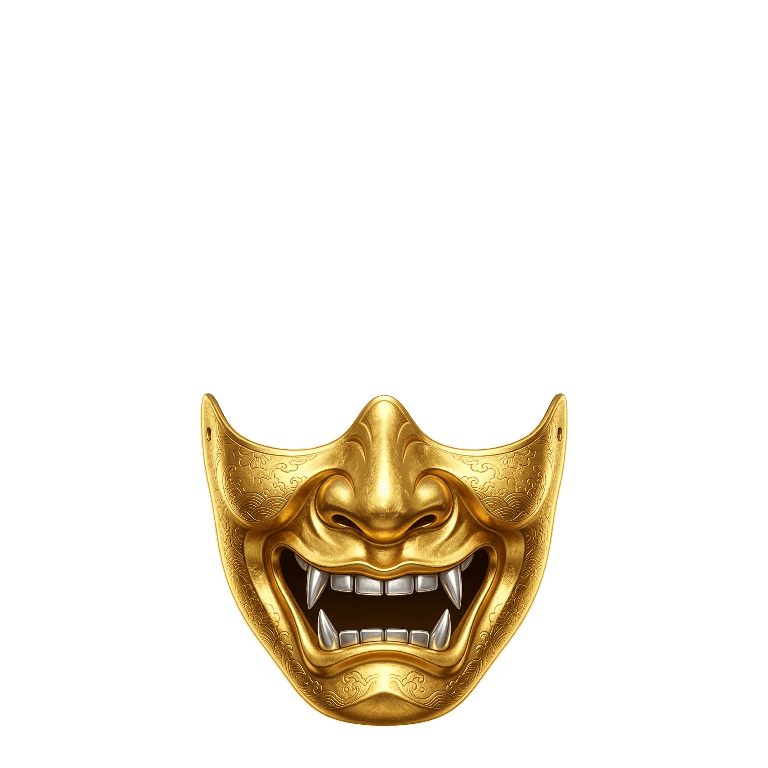
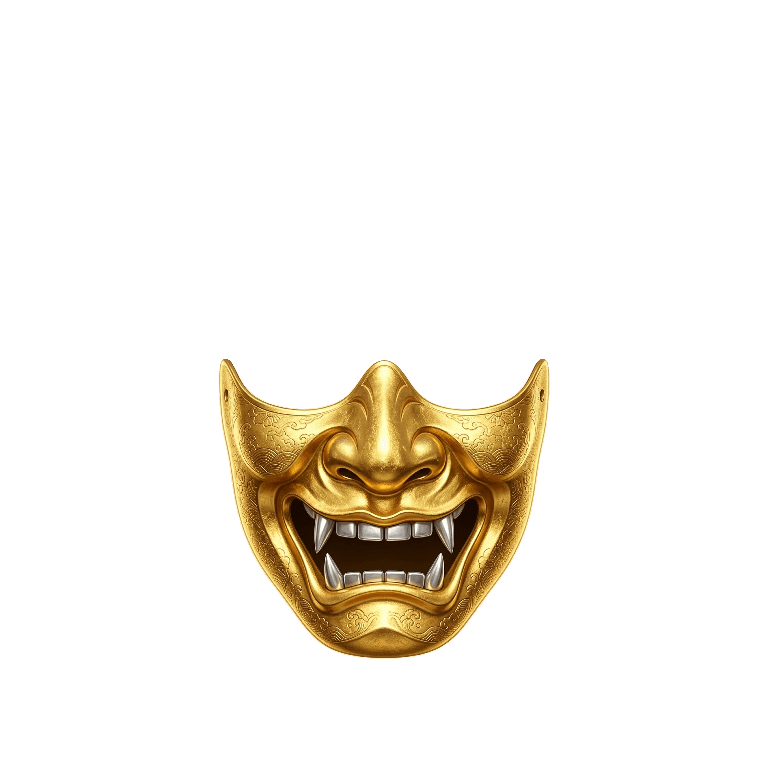
鬼面の目と口を透過、半面の位置を直し、回転しても面が外れないようにする
- 全面の目と口の白い穴を透過に（白い面の光沢は残す）
- 半面は実機の写真に合わせて1割小さく、上へ（上端が鼻の付け根、口が口に）
- js/maskfit.js：目が見えている間に肩・腰に対する頭の位置を覚え、目が隠れても体から推して面を付け続ける
- share.html はこの部品を使う。診断に面の追いかけの状態（eyes/body/held）を出す

Claude-Session: https://claude.ai/code/session_016nRw8kKr4FjbL1rqaBMWNA

Changed region(s): [[0.25, 0.4688, 0.75, 0.9688]]

diff --git a/js/maskfit.js b/js/maskfit.js
@@ -1,0 +1,68 @@
+// Keeps a 鬼面 on the player's face from the pose landmarks (MediaPipe Pose, 33 points).
+// While both eyes are seen, it learns where the head sits relative to the torso (shoulders → hips) and how big it is.
+// When the eyes are lost — a spin, the sword across the face — it carries on from the torso,
+// so the mask never drops off for a moment and shows the face. Pure logic: no drawing, no camera.
+
+const EYE_L = 2, EYE_R = 5, SH_L = 11, SH_R = 12, HIP_L = 23, HIP_R = 24;
+const mid = (a, b) => [(a[0] + b[0]) / 2, (a[1] + b[1]) / 2];
+const dist = (a, b) => Math.hypot(a[0] - b[0], a[1] - b[1]);
+
+// opts: smooth 0–1 (higher = steadier but slower), eyeVis / bodyVis = how sure a point must be, holdMs = how long to keep
+// the last place when even the body is lost
+export function createMaskFit({ smooth = 0.5, eyeVis = 0.5, bodyVis = 0.3, holdMs = 1500 } = {}) {
+  let model = null;          // head relative to the torso, learned while the eyes are seen
+  let eyes = null, lastAt = -1e9, source = "none";
+
+  // the torso as a little frame: its top (shoulder middle), its length and its tilt
+  function torso(P, ok) {
+    if (!ok(SH_L) || !ok(SH_R)) return null;
+    const top = mid(P(SH_L), P(SH_R));
+    if (ok(HIP_L) && ok(HIP_R)) {
+      const hip = mid(P(HIP_L), P(HIP_R)), len = dist(top, hip);
+      if (len > 1) return { top, len, ang: Math.atan2(top[0] - hip[0], hip[1] - top[1]) };
+    }
+    // hips out of the picture: shoulder width stands in for the length (it shrinks while turning, so only as a fallback)
+    const w = dist(P(SH_L), P(SH_R));
+    return w > 1 && model ? { top, len: w * model.lenPerShoulder, ang: 0 } : null;
+  }
+  const rot = (v, a) => [v[0] * Math.cos(a) - v[1] * Math.sin(a), v[0] * Math.sin(a) + v[1] * Math.cos(a)];
+
+  // lm: landmarks of one person; toCanvas(p) → [x, y] on the picture (mirroring and cropping already applied)
+  // returns the two eye points, left to right on the picture, or null
+  function update(lm, now, toCanvas) {
+    let target = null;
+    if (lm) {
+      const P = (i) => toCanvas(lm[i]);
+      const ok = (i) => (lm[i].visibility ?? 1) >= bodyVis;
+      const T = torso(P, ok);
+      if ((lm[EYE_L].visibility ?? 1) >= eyeVis && (lm[EYE_R].visibility ?? 1) >= eyeVis) {
+        target = [P(EYE_L), P(EYE_R)].sort((a, b) => a[0] - b[0]);
+        source = "eyes";
+        if (T) {
+          // learn: the eye middle from the shoulder middle, in torso lengths, in the torso's own frame
+          const m = mid(...target), off = rot([m[0] - T.top[0], m[1] - T.top[1]], -T.ang);
+          const fresh = { off: [off[0] / T.len, off[1] / T.len], ipd: dist(...target) / T.len,
+            tilt: Math.atan2(target[1][1] - target[0][1], target[1][0] - target[0][0]) - T.ang,
+            lenPerShoulder: ok(HIP_L) && ok(HIP_R) ? T.len / Math.max(1, dist(P(SH_L), P(SH_R))) : model ? model.lenPerShoulder : 1.6 };
+          const k = model ? 0.9 : 0; // a slow average, so one odd frame does not spoil it
+          model = model ? { off: [model.off[0] * k + fresh.off[0] * (1 - k), model.off[1] * k + fresh.off[1] * (1 - k)], ipd: model.ipd * k + fresh.ipd * (1 - k),
+            tilt: model.tilt * k + fresh.tilt * (1 - k), lenPerShoulder: model.lenPerShoulder * k + fresh.lenPerShoulder * (1 - k) } : fresh;
+        }
+      } else if (T && model) {
+        // the eyes are hidden: put the head where the torso says it is
+        const o = rot([model.off[0] * T.len, model.off[1] * T.len], T.ang), m = [T.top[0] + o[0], T.top[1] + o[1]];
+        const half = (model.ipd * T.len) / 2, a = model.tilt + T.ang;
+        target = [[m[0] - half * Math.cos(a), m[1] - half * Math.sin(a)], [m[0] + half * Math.cos(a), m[1] + half * Math.sin(a)]];
+        source = "body";
+      }
+    }
+    if (target) {
+      const k = eyes && now - lastAt < 400 ? smooth : 0;
+      eyes = eyes ? eyes.map((e, i) => [e[0] * k + target[i][0] * (1 - k), e[1] * k + target[i][1] * (1 - k)]) : target;
+      lastAt = now;
+    } else if (now - lastAt > holdMs) { eyes = null; source = "none"; }
+    else source = "held";
+    return eyes;
+  }
+  return { update, get source() { return source; }, get learned() { return !!model; } };
+}

diff --git a/share.html b/share.html
@@ -66,6 +66,7 @@ button:disabled { opacity: .45; }
 <script type="module">
 // Share-video test: the front camera, a 鬼面 fitted to the eyes, recorded for a few seconds and handed to the share sheet.
 // Nothing leaves the phone unless the player taps Share.
+import { createMaskFit } from "./js/maskfit.js";
 const KEY = "suburi-bugeicho.v1";
 let saved = {}; try { saved = JSON.parse(localStorage.getItem(KEY) || "{}"); } catch {}
 const LANG = ["ja", "en"].includes(saved.lang) ? saved.lang : ((navigator.language || "").toLowerCase().startsWith("ja") ? "ja" : "en");
@@ -109,24 +110,21 @@ async function startCamera() {
   $("btn-cam").hidden = true; $("btn-rec").disabled = false;
   requestAnimationFrame(loop);
 }
-// the picture is mirrored like a selfie; eye points are turned into canvas coordinates of the mirrored picture
+// the picture is mirrored like a selfie; the fitter keeps the mask on through spins (js/maskfit.js)
+const fit = createMaskFit({ smooth: S.smooth, holdMs: S.holdMs || 1500 });
 function readEyes(now) {
   if (!landmarker || now - lastDetect < 1000 / S.fps) return;
   lastDetect = now;
   const res = landmarker.detectForVideo(video, now); frames++;
-  const lm = res.landmarks && res.landmarks[0];
-  if (!lm || lm[2].visibility < 0.5 || lm[5].visibility < 0.5) return;
   const W = cv.width, H = cv.height, VW = video.videoWidth;
-  const pts = [lm[2], lm[5]].map((p) => [W - (p.x * VW - cropX), p.y * H]).sort((a, b) => a[0] - b[0]);
-  const k = S.smooth;
-  eyes = eyes && now - lastSeen < 400 ? eyes.map((e, i) => [e[0] * k + pts[i][0] * (1 - k), e[1] * k + pts[i][1] * (1 - k)]) : pts;
-  lastSeen = now;
+  eyes = fit.update(res.landmarks && res.landmarks[0], now, (p) => [W - (p.x * VW - cropX), p.y * H]);
+  if (eyes) lastSeen = now;
 }
 function draw(now) {
   const W = cv.width, H = cv.height;
   ctx.setTransform(-1, 0, 0, 1, W, 0); ctx.drawImage(video, cropX, 0, W, H, 0, 0, W, H); ctx.setTransform(1, 0, 0, 1, 0, 0);
   const im = maskImg(maskName);
-  if (im && eyes && now - lastSeen < 500) {
+  if (im && eyes) {
     // similarity transform: the mask's two eye points onto the player's two eyes
     const [l, r] = eyes, dx = r[0] - l[0], dy = r[1] - l[1];
     const s = Math.hypot(dx, dy) / (EYE_R[0] - EYE_L[0]), a = Math.atan2(dy, dx);
@@ -198,7 +196,7 @@ function renderDiag(extra) {
   if (extra) note = extra;
   const testFile = new File([new Blob(["x"], { type: "video/mp4" })], "t.mp4", { type: "video/mp4" });
   $("diag").textContent = [
-    `camera: ${video.videoWidth || "-"}x${video.videoHeight || "-"}  pose: ${fps}fps  eyes: ${eyes && performance.now() - lastSeen < 500 ? "OK" : "-"}`,
+    `camera: ${video.videoWidth || "-"}x${video.videoHeight || "-"}  pose: ${fps}fps  mask: ${fit.source}${fit.learned ? "" : " (learning)"}`,
     `captureStream: ${!!HTMLCanvasElement.prototype.captureStream}  MediaRecorder: ${!!window.MediaRecorder}  format: ${pickMime() || "-"}`,
     `share files: ${!!(navigator.canShare && navigator.canShare({ files: [testFile] }))}`,
     note,

diff --git a/CLAUDE.md b/CLAUDE.md
@@ -52,7 +52,7 @@
 - 鬼面・影絵・装具・刀の部品は白背景で生成している。使う前に背景を抜く
 - **登録の状況は `docs/素材の登録状況.md`**（`python3 tools/asset_list.py` で作り直す。取り込んだら `data/asset_imports.json` に1件足す）。新しく作る前にここで「まだ無いもの」を確かめる
 - **アプリ用に軽くする**：妖怪は600×800に縮めて256色に圧縮（見た目はほぼ同じ）。元の方が軽ければ元のまま
-- **鬼面はシェア動画で顔に重ねる**：背景を細かく抜き、768×768のキャンバスに、着ける人の両目が同じ2点（左310.5,343／右457.5,343）に来るようそろえる。目と種類（全面・面頬・覆面・半面）は `data/masks.json`。覆面の目の部分と面頬の目・口は透過、能面や鬼の描かれた目はそのまま
+- **鬼面はシェア動画で顔に重ねる**：背景を細かく抜き、768×768のキャンバスに、着ける人の両目が同じ2点（左310.5,343／右457.5,343）に来るようそろえる。目と種類（全面・面頬・覆面・半面）は `data/masks.json`。覆面の目、面頬の目・口、全面の目と口の白い穴（背景が見えていた所）は透過。顔の追いかけは （回転で目が隠れても肩と腰から頭の位置を推して付け続ける）
 
 ## 決定事項（実装で守ること）
 

diff --git a/docs/素材の登録状況.md b/docs/素材の登録状況.md
@@ -67,6 +67,10 @@
 
 新しいものから。ファイル名の一覧は `data/asset_imports.json` にある。
 
+### 2026-11-05　実機テストを受けて作り直し
+
+- 20件：全面の目と口の白い穴を透過に。半面は1割小さく、目の間隔の0.2倍上へ
+
 ### 2026-11-05　zip（mask / boss / yokai / yokai2 / yokai3）
 
 - 91件：鬼面は背景を抜き、両目の位置をそろえた（data/masks.json）。mask_award_gold_oni.png4.jpg は mask_award_gold_oni.png に直した。妖怪は600×800に縮めて圧縮。ボスは元の方が軽かったのでそのまま
